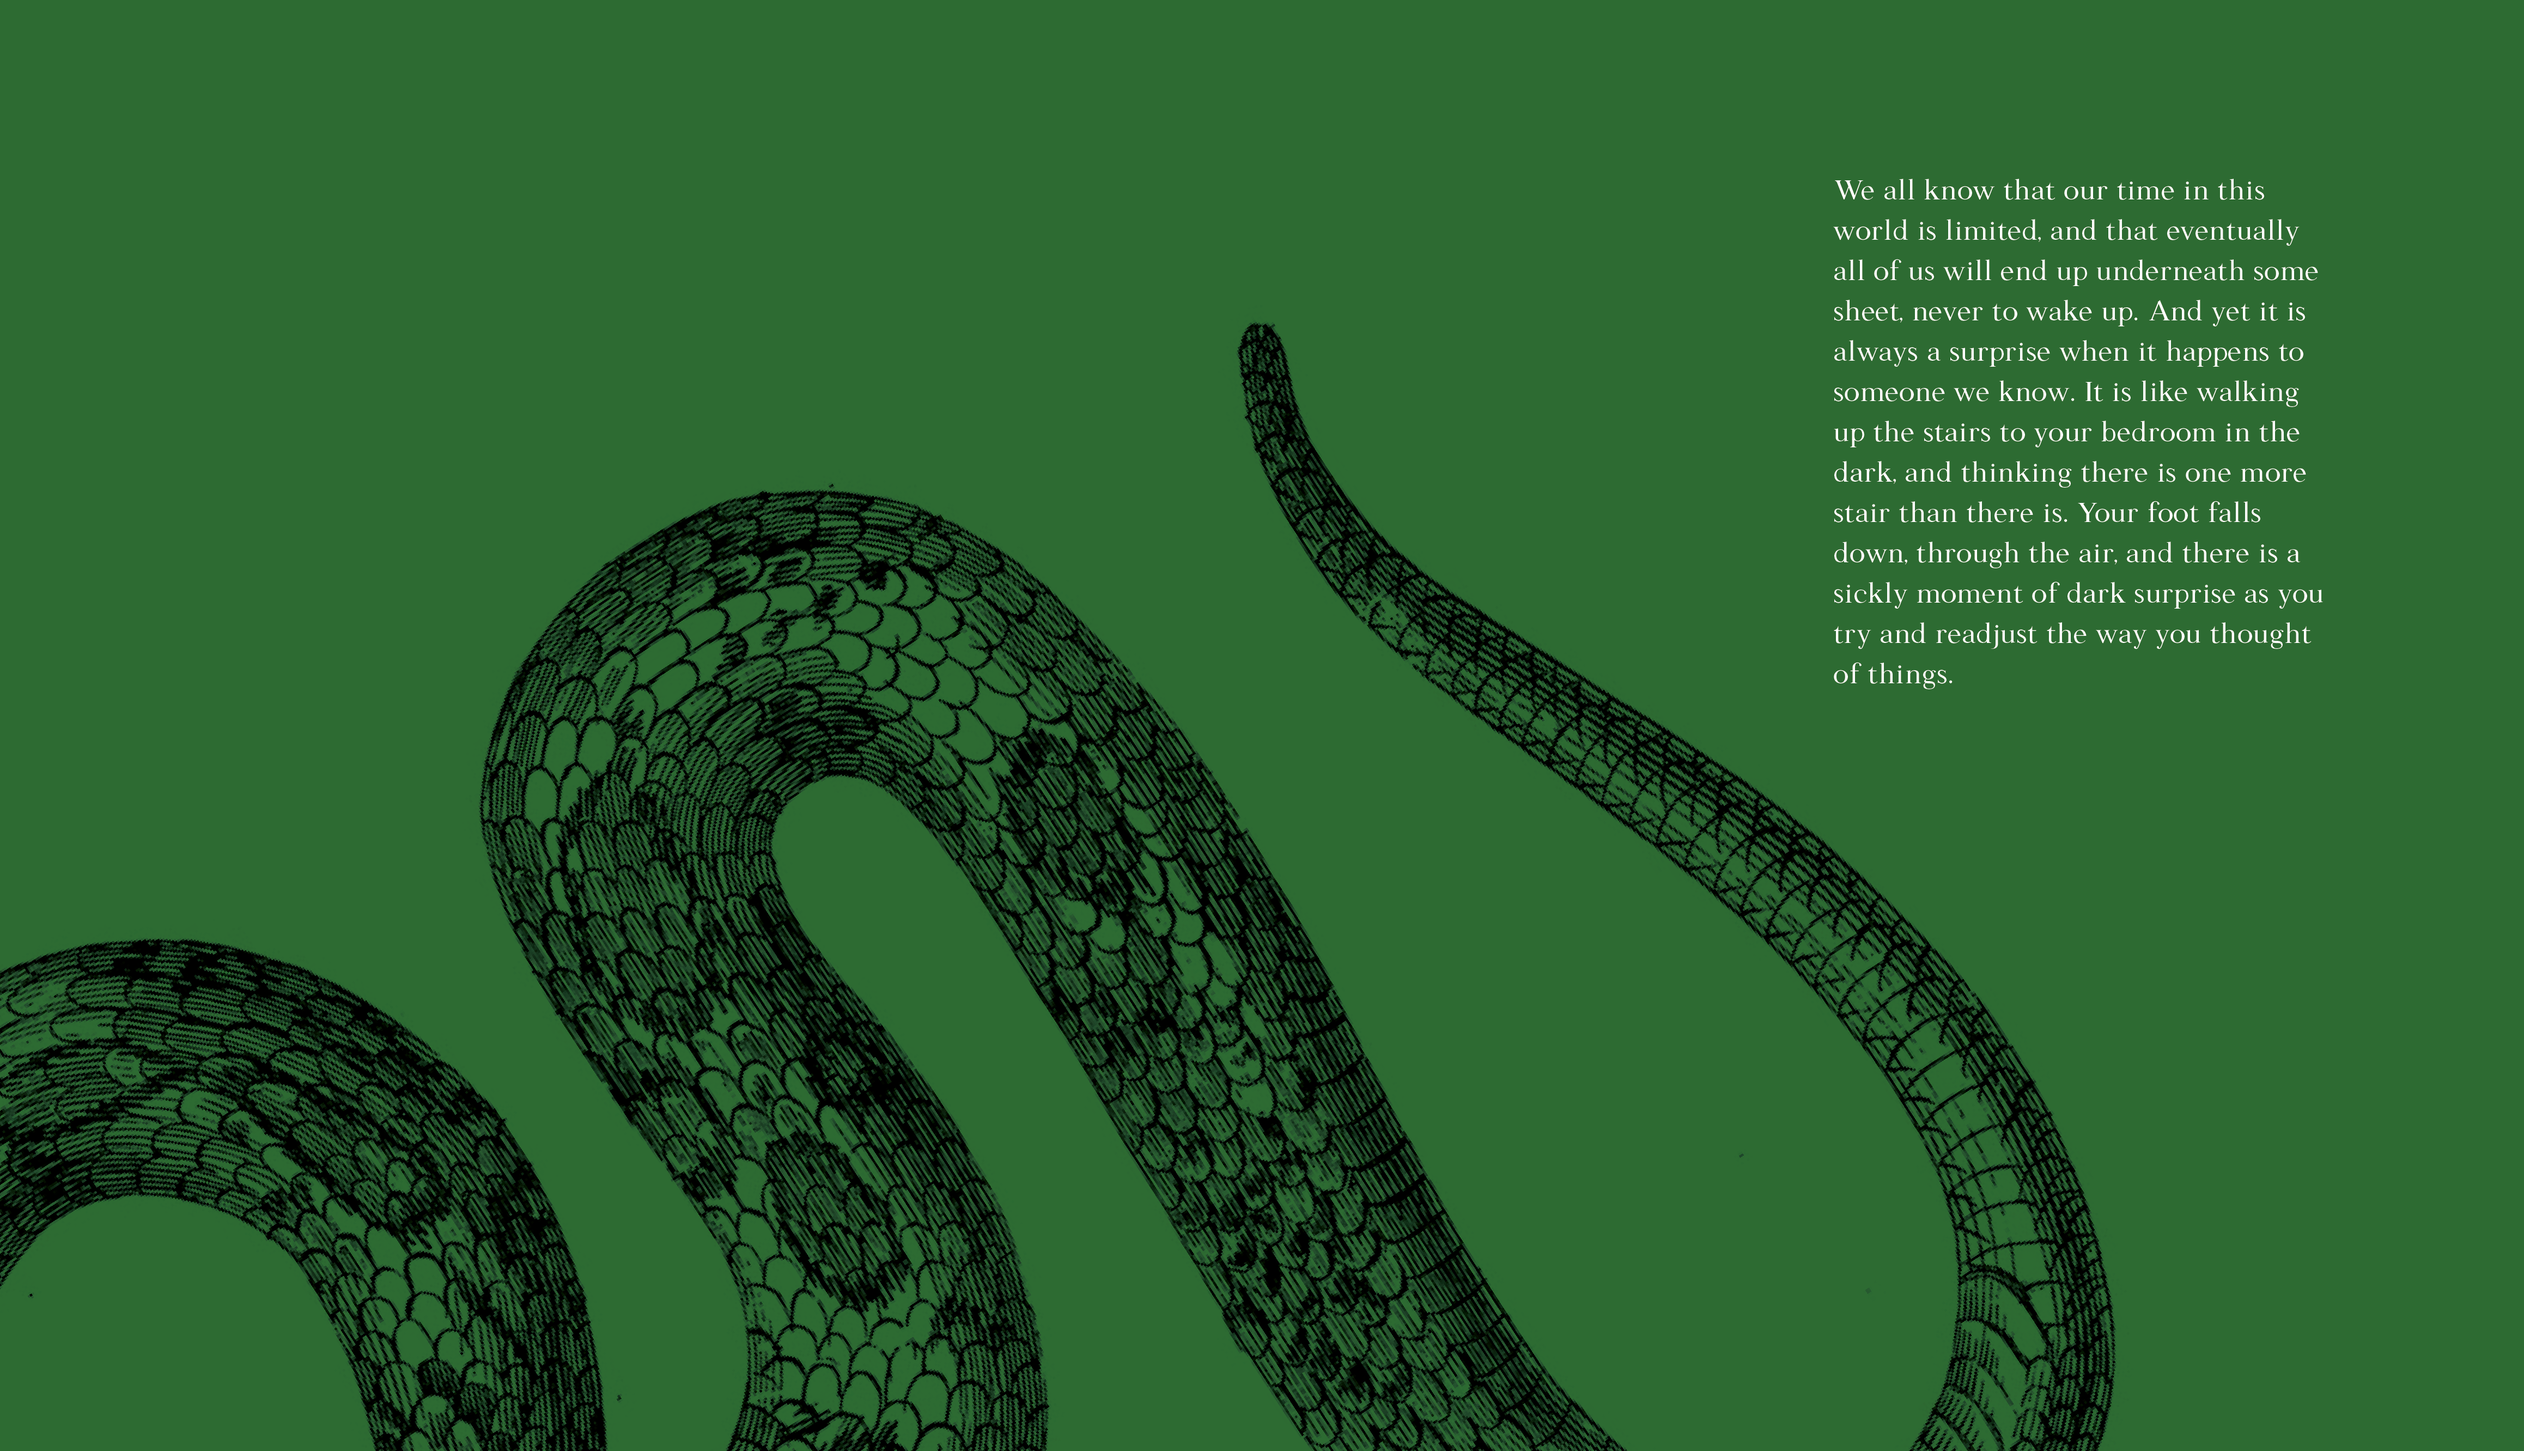
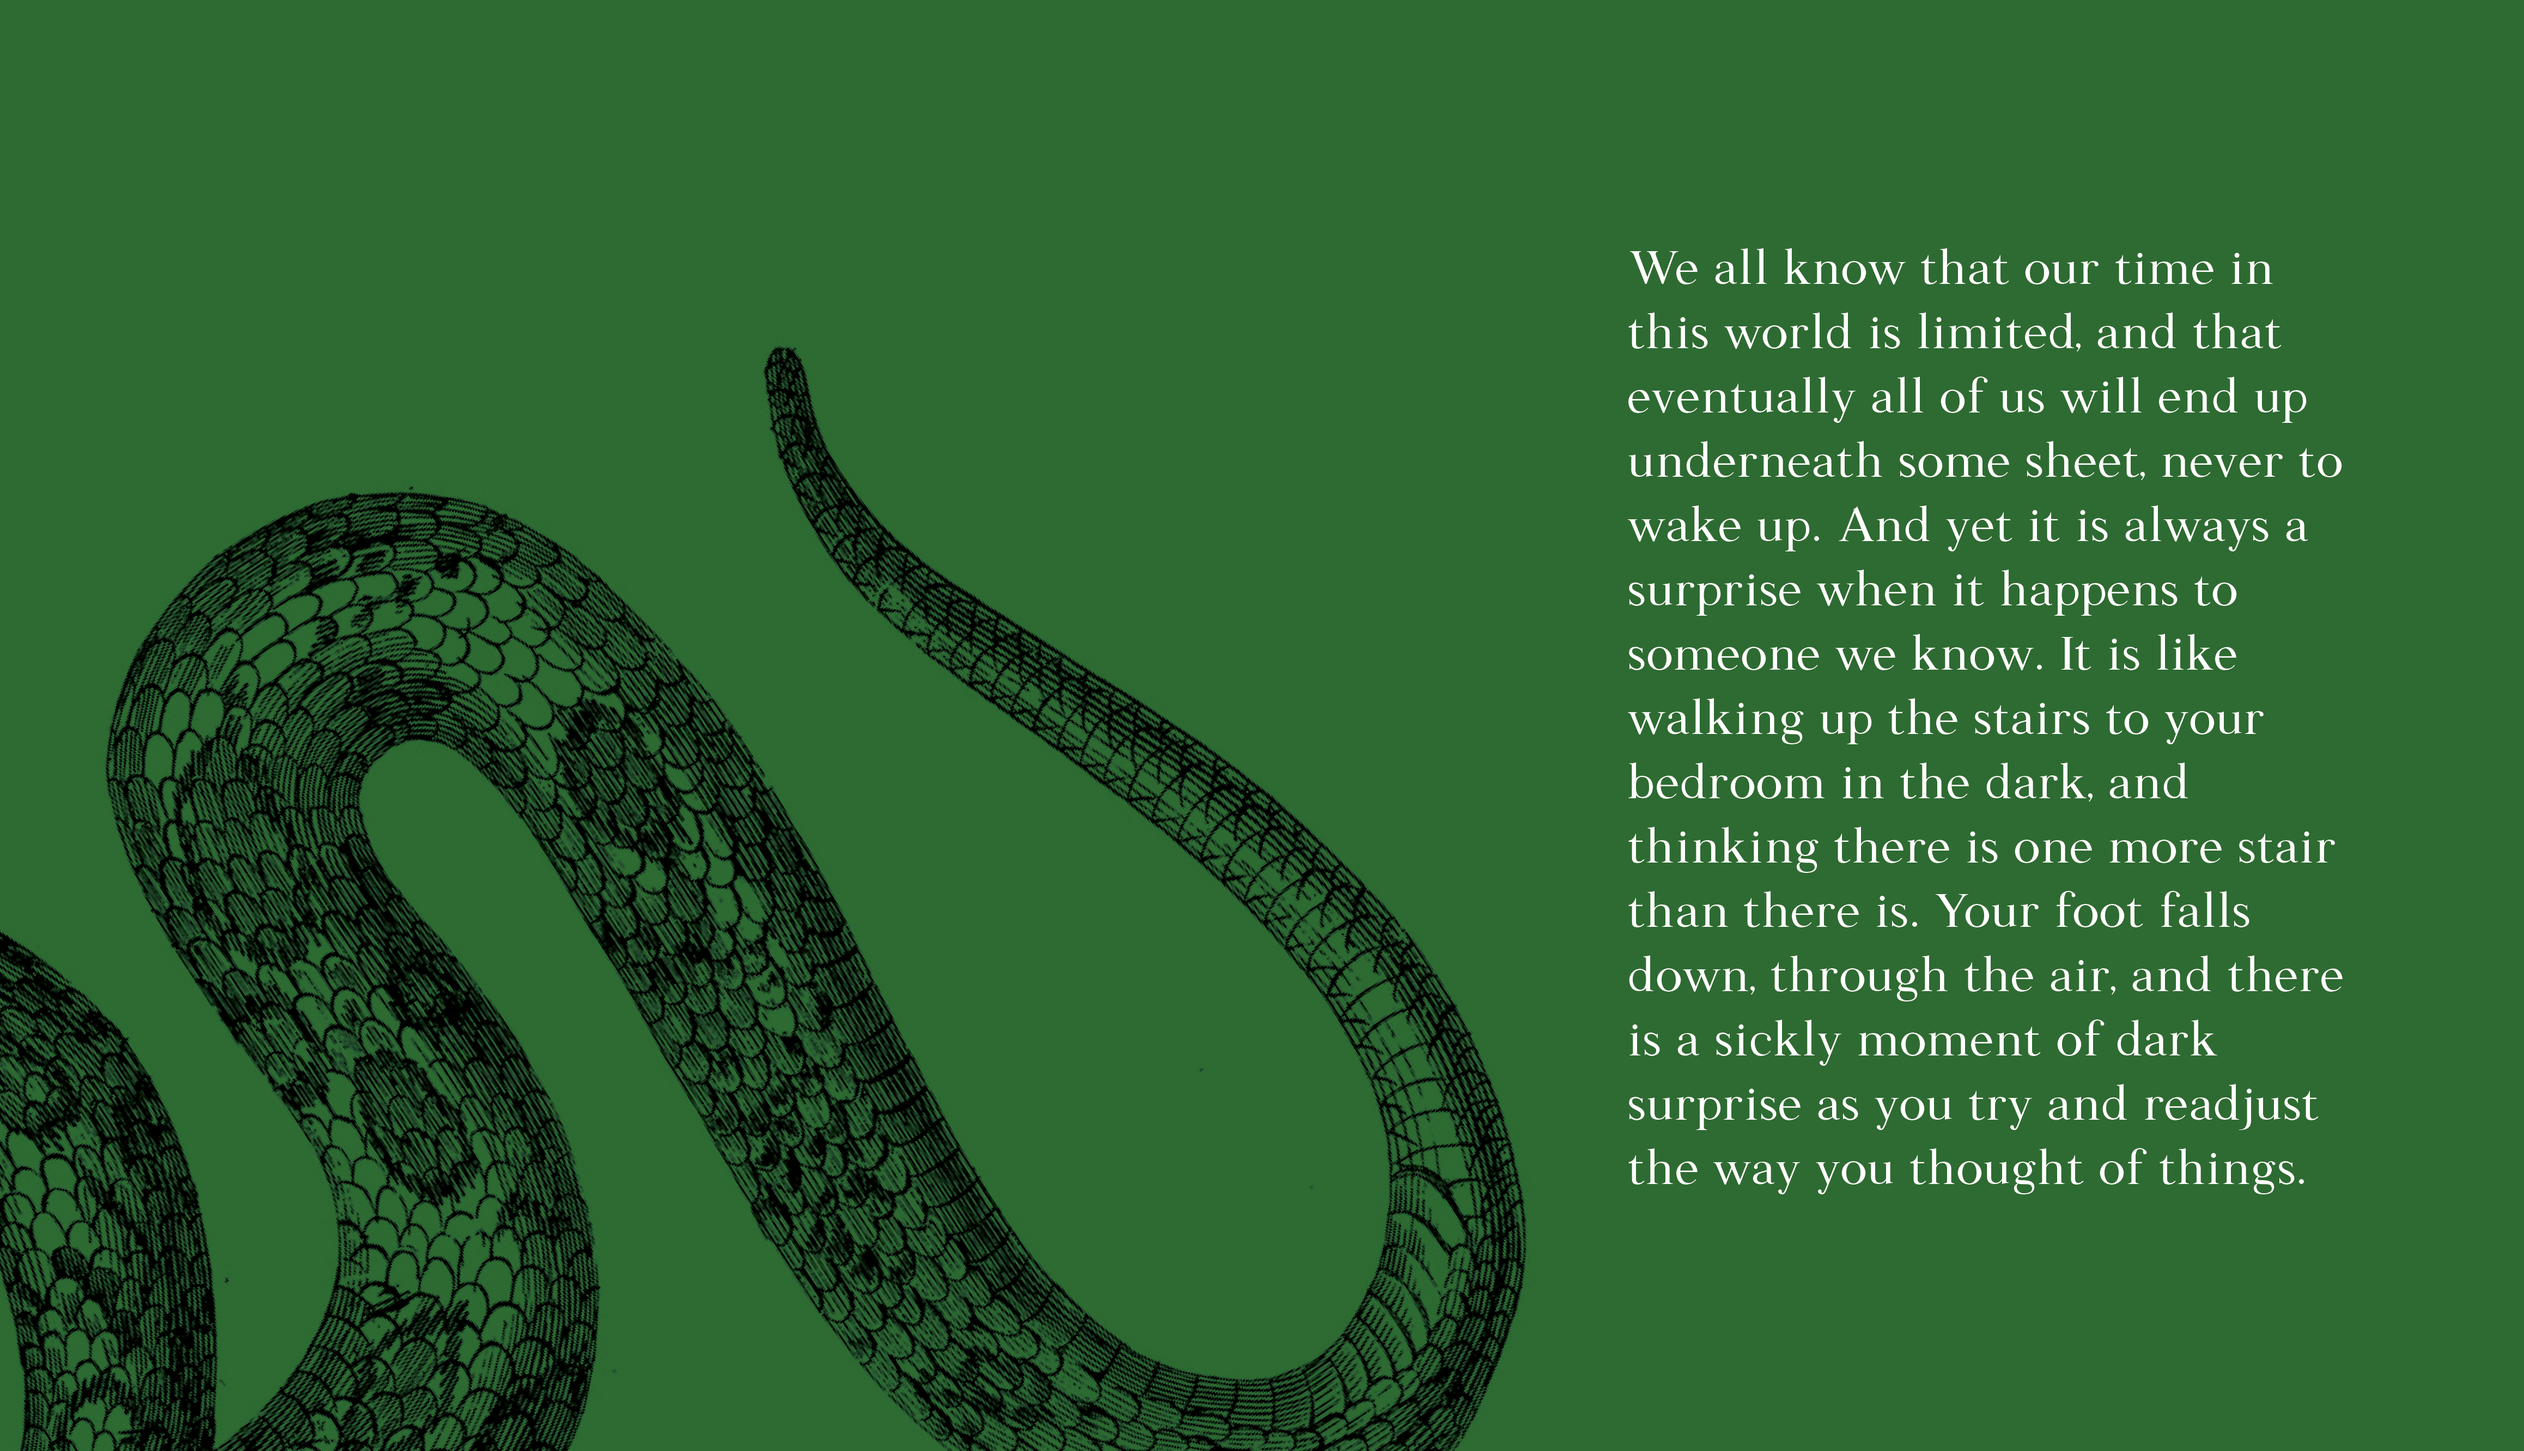
Added ability to do full width images; Updated Baudelaire case study

Changed region(s): [[0.0, 0.2493, 0.6527, 1.0], [0.4662, 0.1247, 0.9324, 1.0]]

diff --git a/src/content/baudelaire.html b/src/content/baudelaire.html
@@ -17,11 +17,21 @@ type: project
             <p class="project_text">I designed a typeface for my Typography 3 class at Northeastern University. We were tasked with designing a typeface that could be used for body copy at 7pt. We were allowed a lot of freedom in what we wanted our typeface to be.</p>
             <p class="project_text">After some sketching to figure out where my interests lied, I decided to design a more modern transitional serif that could work on screens.</p>
         </div>
-        <div class="project_img-container project_img-container--full">
-            <img class="project_img" src="/static/img/full/baudelaire4.png"/>
+        <div class="project_img-container project_img-container--med">
             <img class="project_img" src="/static/img/full/baudelaire3.png"/>
+        </div>
+        <div class="project_img-container project_img-container--med">
             <img class="project_img" src="/static/img/full/baudelaire2.png"/>
         </div>
+
+    </section>
+</section>
+
+<img class="project_img" src="/static/img/full/baudelaire4.png"/>
+
+<section class='site-container'>
+    <section class="project-section">
+        
 
         <div class="project_text-container">
             <p class="project_text">As the typeface came together, from capitals, to lowercase, to punctuation, to metrics, its personality formed. It started reminding me of something you'd see in a childhood scary story. I named it after my favorite character from my favorite childhood books: Violet Baudelaire from A Series of Unfortunate Events.</p>

diff --git a/src/static/scss/main.scss b/src/static/scss/main.scss
@@ -13,6 +13,7 @@
 .portfolio {
   font-family: $sans;
   background-color: $white;
+  margin: 0;
 }
 
 a {
